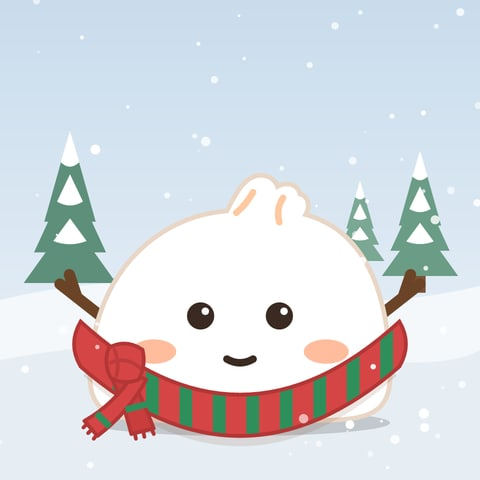
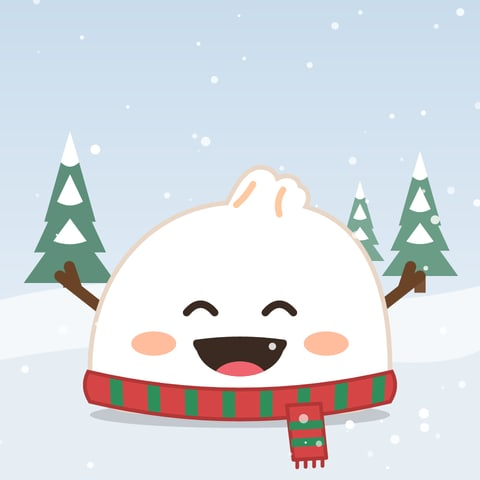
목도리: 처음 그림(e8fecf4)의 목도리를 기준으로 다듬기
띠를 몸 양끝까지 늘리고 세로 초록 줄을 띠 곡선에 맞춤, 입은 가리지 않게.
오른쪽 앞에 곧게 늘어진 꼬리 (앱은 그림 높이 안에 들게 짧게)

Changed region(s): [[0.0938, 0.3438, 0.9062, 1.0]]

diff --git a/design/tools/make_samples.js b/design/tools/make_samples.js
@@ -68,19 +68,15 @@ function beanie(color, band, pom) {
     <circle cx="200" cy="46" r="30" fill="${pom}"/><circle cx="182" cy="36" r="13" fill="${pom}"/><circle cx="220" cy="34" r="13" fill="${pom}"/>`;
 }
 
-/** 빨간 목도리 (over 에 넣는다). 몸에 칠한 띠가 아니라 두께·테두리가 있는 따로 된 목도리를 몸에 감는다.
- *  볼 아래 높이로 감아 앞이 아래로 처지고(양옆 아래로 몸이 보여야 '맨' 것처럼 보인다), 양끝은 몸 밖으로 살짝,
- *  초록 줄은 띠를 가로지르는 줄무늬, 왼쪽 옆에 묶은 매듭에서 꼬리 두 개가 엇갈려 늘어진다. 앱 옷장의 목도리(Outfits.tsx 의 scarf)와 같은 모양 */
-const SCARF = `<path d="M36,250 Q200,398 364,250" stroke="rgba(120,40,0,0.12)" stroke-width="10" fill="none"/>
-  <path d="M30,196 Q200,352 370,196 Q384,220 370,244 Q200,392 30,244 Q16,220 30,196 Z" fill="#d64545"/>
-  <path d="M64,224.1 L77.6,233.6 L77.6,279.6 L64,270.6 ZM99.7,246.8 L113.3,253.7 L113.3,298.8 L99.7,292.2 ZM135.4,262.7 L149,267 L149,311.3 L135.4,307.3 ZM171.1,271.7 L184.7,273.4 L184.7,317.4 L171.1,315.9 ZM206.8,273.9 L220.4,272.9 L220.4,316.9 L206.8,317.9 ZM242.5,269.1 L256.1,265.5 L256.1,309.9 L242.5,313.4 ZM278.2,257.5 L291.8,251.3 L291.8,296.4 L278.2,302.3 ZM313.9,239 L327.5,230.1 L327.5,276.4 L313.9,284.8 ZM349.6,213.6 L363.2,202.1 L363.2,249.8 L349.6,260.7 Z" fill="#2f8f5b"/>
-  <path d="M30,196 Q200,352 370,196 Q384,220 370,244 Q200,392 30,244 Q16,220 30,196 Z" fill="none" stroke="#b33636" stroke-width="4"/>
-  <path d="M60,250 Q76,282 84,316 L108,310 Q96,278 80,248 Z" fill="#c93d3d" stroke="#b33636" stroke-width="4" stroke-linejoin="round"/>
-  <path d="M86,252 Q66,284 34,302 L48,318 Q80,294 100,258 Z" fill="#d64545" stroke="#b33636" stroke-width="4" stroke-linejoin="round"/>
-  <path d="M78,290 L101,284 M47,294 L61,308" stroke="#2f8f5b" stroke-width="7"/>
-  <path d="M88,316 l1,5 M97,314 l1,5 M106,311 l2,5 M37,305 l-4,4 M42,311 l-4,4 M47,317 l-3,4" stroke="#b33636" stroke-width="4" stroke-linecap="round"/>
-  <path d="M60,224 Q78,214 96,226 Q100,242 92,258 Q76,264 62,256 Q54,240 60,224 Z" fill="#d64545" stroke="#b33636" stroke-width="4"/>
-  <path d="M62,240 Q78,232 94,246 M66,226 Q72,240 68,254" stroke="#b33636" stroke-width="4" stroke-linecap="round" fill="none" opacity="0.7"/>`;
+/** 빨간 목도리 (over 에 넣는다). 처음 그림(e8fecf4)의 목도리 — 몸 앞을 가로지르는 띠 + 세로 초록 줄 + 오른쪽 앞에
+ *  곧게 늘어진 꼬리 — 를 다듬은 것: 띠를 몸 양끝까지 늘리고, 줄은 띠 곡선에 맞추고, 입은 가리지 않게.
+ *  앱 옷장의 목도리(Outfits.tsx 의 scarf)와 같은 모양 (앱은 그림 높이 320 안에 들도록 꼬리만 짧다) */
+const SCARF = `<path d="M38,258 Q200,296 362,258 Q370,274 360,290 Q200,328 40,290 Q30,274 38,258 Z" fill="#d64545"/>
+  <path d="M60.7,262.9 L74.3,265.6 L75.8,297.6 L62.4,294.9 ZM100.9,269.9 L114.5,271.7 L115.5,303.7 L102.1,301.9 ZM141,274.5 L154.6,275.5 L155.2,307.5 L141.8,306.5 ZM181.2,276.7 L194.8,277 L194.9,309 L181.4,308.7 ZM221.4,276.7 L235,276.1 L234.6,308.1 L221.1,308.7 ZM261.6,274.3 L275.2,272.9 L274.2,304.9 L260.8,306.3 ZM301.7,269.5 L315.3,267.4 L313.9,299.4 L300.5,301.5 ZM341.9,262.4 L355.5,259.5 L353.6,291.5 L340.2,294.4 Z" fill="#2f8f5b"/>
+  <path d="M38,258 Q200,296 362,258 Q370,274 360,290 Q200,328 40,290 Q30,274 38,258 Z" fill="none" stroke="#b33636" stroke-width="4"/>
+  <path d="M250,294 L286,292 L292,350 L257,352 Z" fill="#d64545" stroke="#b33636" stroke-width="4" stroke-linejoin="round"/>
+  <path d="M252.6,316 L288.4,314 M254.8,334 L290.2,332" stroke="#2f8f5b" stroke-width="9"/>
+  <path d="M261,352.0 l0,8 M270,351.5 l0,8 M279,351.0 l0,8 M288,350.5 l0,8" stroke="#b33636" stroke-width="4" stroke-linecap="round"/>`;
 
 /** 짧고 동그란 흰 손·발 (코코와 같은 흰색 + 테두리) */
 const nub = (cx, cy, rx, ry, rot = 0) =>
@@ -164,13 +160,13 @@ const guitar = (col = '#e5383b', neck = '#8a5a3c') => `
 
 // ── 장면 ─────────────────────────────────────────────────────────────────────
 const SCENES = {
-  // 눈밭의 눈사람 코코 + 목도리 (코코치 창). 목도리가 입을 가리지 않게 입이 작은 표정
+  // 눈밭의 눈사람 코코 + 목도리 (코코치 창)
   cocochi: [480, 480, () => svg(480, 480, `
     <rect width="480" height="480" fill="url(#sky)"/>
     ${pine(70, 300, 170, '#5d8f7a', true)}${pine(420, 290, 140, '#6a9c86', true)}${pine(360, 270, 90, '#7aa894', true)}
     <path d="M0,300 Q120,270 240,292 T480,286 L480,480 L0,480 Z" fill="#f4f8fb"/>
     <path d="M0,360 Q160,330 300,352 T480,350 L480,480 L0,480 Z" fill="#e6eef4"/>
-    ${coco(240, 420, 300, { mood: 'calm', over: SCARF,
+    ${coco(240, 412, 300, { mood: 'happy', over: SCARF,
       under: `<path d="M64,200 L8,156 M26,170 L18,146 M336,200 L392,156 M374,170 L382,146" stroke="#6b4428" stroke-width="12" stroke-linecap="round"/>` })}
     ${snow(70, 480, 480, 7)}
   `, lin('sky', [[0, '#c9dcec'], [1, '#eef4fa']]))],

diff --git a/app/src/components/Outfits.tsx b/app/src/components/Outfits.tsx
@@ -17,10 +17,10 @@ const FIT: Record<OutfitId, { from: [number, number]; to: [number, number]; k: n
   earflap: { from: [0, 0], to: [0, 0], k: 1, top: 14 },
   trapper: { from: [0, 0], to: [0, 0], k: 1, top: 62 },
   glasses: { from: [0, 0], to: [0, 0], k: 1, top: 160 },
-  scarf: { from: [0, 0], to: [0, 0], k: 1, top: 196 },
+  scarf: { from: [0, 0], to: [0, 0], k: 1, top: 258 },
 };
 
-const SCARF_BAND = 'M30,196 Q200,352 370,196 Q384,220 370,244 Q200,392 30,244 Q16,220 30,196 Z';
+const SCARF_BAND = 'M38,258 Q200,296 362,258 Q370,274 360,290 Q200,328 40,290 Q30,274 38,258 Z';
 const HEART = '#fff'; // 하트 꼬랑지 (코코와 같은 흰색)
 const LINE = '#3a2a22'; // 고양이 귀·수염 (코코 눈과 같은 색)
 const EAR = '#2e2a2f'; // 강아지 귀 (흰 코코와 대비되는 검정)
@@ -200,21 +200,16 @@ function Hat({ id }: { id: OutfitId }) {
         </G>
       );
     case 'scarf':
-      // 빨간 목도리: 몸에 칠한 띠가 아니라 두께·테두리가 있는 따로 된 목도리를 몸에 감는다.
-      // 볼 아래 높이로 감아 앞이 아래로 처지고(양옆 아래로 몸이 보여야 '맨' 것처럼 보인다), 양끝은 몸 밖으로 살짝,
-      // 초록 줄은 띠를 가로지르는 줄무늬, 왼쪽 옆에 묶은 매듭에서 꼬리 두 개가 엇갈려 늘어진다 (design/tools/make_samples.js 의 SCARF 와 같은 모양)
+      // 빨간 목도리: 몸 앞을 가로지르는 띠 + 세로 초록 줄 + 오른쪽 앞에 곧게 늘어진 꼬리
+      // (design/tools/make_samples.js 의 SCARF 와 같은 모양, 꼬리만 그림 높이 320 안에 들게 짧다)
       return (
         <G>
-          <Path d="M36,250 Q200,398 364,250" stroke="rgba(120,40,0,0.12)" strokeWidth={10} fill="none" />
           <Path d={SCARF_BAND} fill="#d64545" />
-          <Path d="M64,224.1 L77.6,233.6 L77.6,279.6 L64,270.6 ZM99.7,246.8 L113.3,253.7 L113.3,298.8 L99.7,292.2 ZM135.4,262.7 L149,267 L149,311.3 L135.4,307.3 ZM171.1,271.7 L184.7,273.4 L184.7,317.4 L171.1,315.9 ZM206.8,273.9 L220.4,272.9 L220.4,316.9 L206.8,317.9 ZM242.5,269.1 L256.1,265.5 L256.1,309.9 L242.5,313.4 ZM278.2,257.5 L291.8,251.3 L291.8,296.4 L278.2,302.3 ZM313.9,239 L327.5,230.1 L327.5,276.4 L313.9,284.8 ZM349.6,213.6 L363.2,202.1 L363.2,249.8 L349.6,260.7 Z" fill="#2f8f5b" />
+          <Path d="M60.7,262.9 L74.3,265.6 L75.8,297.6 L62.4,294.9 ZM100.9,269.9 L114.5,271.7 L115.5,303.7 L102.1,301.9 ZM141,274.5 L154.6,275.5 L155.2,307.5 L141.8,306.5 ZM181.2,276.7 L194.8,277 L194.9,309 L181.4,308.7 ZM221.4,276.7 L235,276.1 L234.6,308.1 L221.1,308.7 ZM261.6,274.3 L275.2,272.9 L274.2,304.9 L260.8,306.3 ZM301.7,269.5 L315.3,267.4 L313.9,299.4 L300.5,301.5 ZM341.9,262.4 L355.5,259.5 L353.6,291.5 L340.2,294.4 Z" fill="#2f8f5b" />
           <Path d={SCARF_BAND} fill="none" stroke="#b33636" strokeWidth={4} />
-          <Path d="M60,250 Q76,282 84,316 L108,310 Q96,278 80,248 Z" fill="#c93d3d" stroke="#b33636" strokeWidth={4} strokeLinejoin="round" />
-          <Path d="M86,252 Q66,284 34,302 L48,318 Q80,294 100,258 Z" fill="#d64545" stroke="#b33636" strokeWidth={4} strokeLinejoin="round" />
-          <Path d="M78,290 L101,284 M47,294 L61,308" stroke="#2f8f5b" strokeWidth={7} />
-          <Path d="M88,316 l1,5 M97,314 l1,5 M106,311 l2,5 M37,305 l-4,4 M42,311 l-4,4 M47,317 l-3,4" stroke="#b33636" strokeWidth={4} strokeLinecap="round" />
-          <Path d="M60,224 Q78,214 96,226 Q100,242 92,258 Q76,264 62,256 Q54,240 60,224 Z" fill="#d64545" stroke="#b33636" strokeWidth={4} />
-          <Path d="M62,240 Q78,232 94,246 M66,226 Q72,240 68,254" stroke="#b33636" strokeWidth={4} strokeLinecap="round" fill="none" opacity={0.7} />
+          <Path d="M250,294 L286,292 L288.2,312 L252.4,314 Z" fill="#d64545" stroke="#b33636" strokeWidth={4} strokeLinejoin="round" />
+          <Path d="M251.2,304 L287.2,302" stroke="#2f8f5b" strokeWidth={9} />
+          <Path d="M256.4,314.0 l0,5 M265.7,313.5 l0,5 M274.9,313.0 l0,5 M284.2,312.5 l0,5" stroke="#b33636" strokeWidth={4} strokeLinecap="round" />
         </G>
       );
     case 'trapper':
